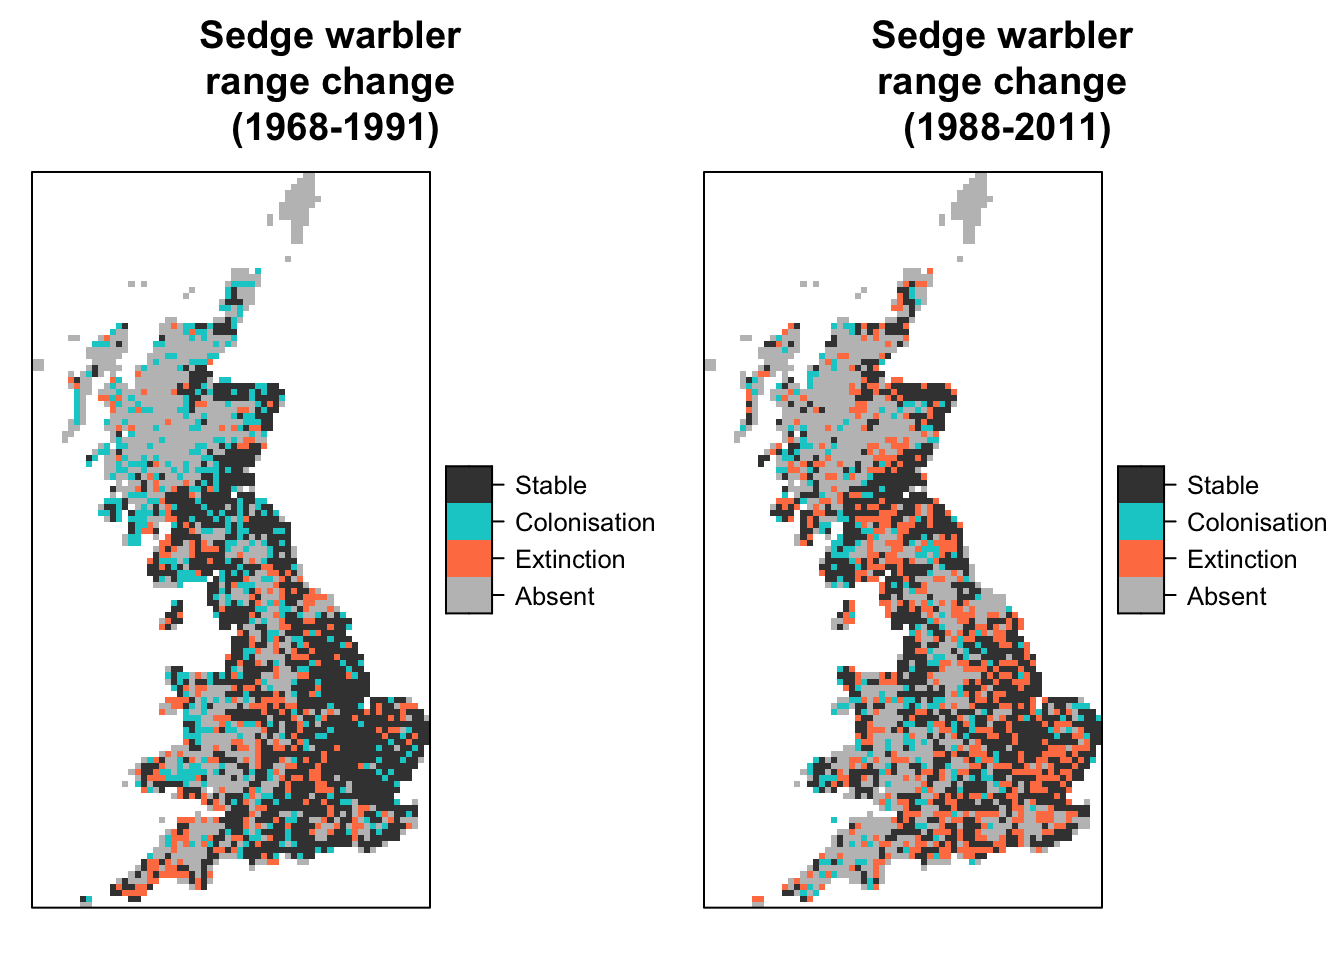
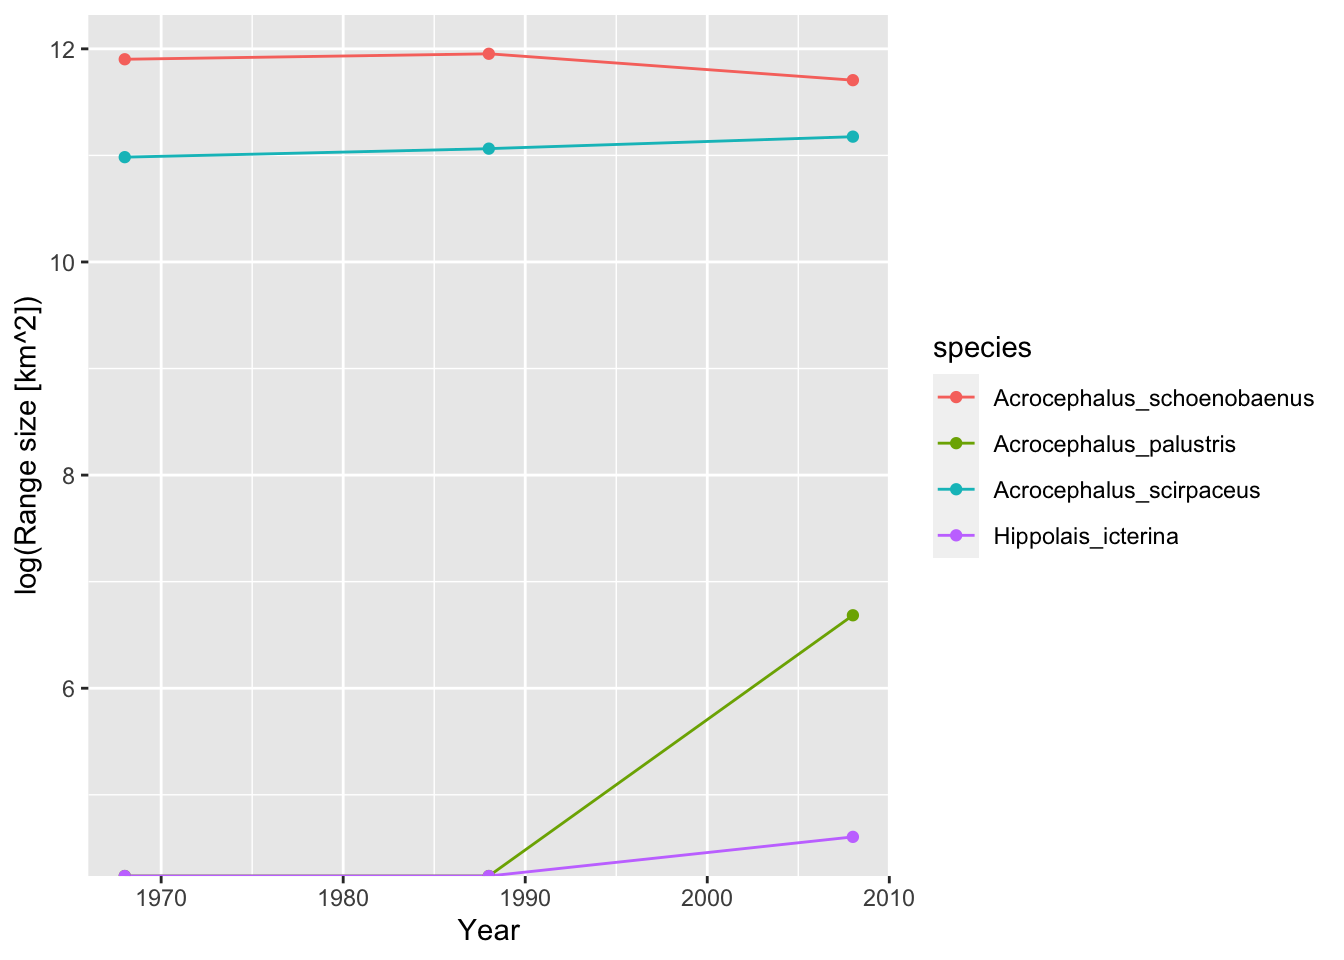
update prac 6

diff --git a/6_BiodivChanges.html b/6_BiodivChanges.html
@@ -501,7 +501,23 @@ plot(rasterFromXYZ(birds_68[,c(&#39;EASTING&#39;,&#39;NORTHING&#39;,&#39;richnes
 <div id="task-1-map-species-richness-changes" class="section level2">
 <h2><span class="header-section-number">1.1</span> Task 1: map species richness changes</h2>
 <p>In order to compare species richness across time periods, you have to compute and map species richness for each sampling period. Then, you can calculate the differences in species richness between these periods.</p>
-<p><img src="6_BiodivChanges_files/figure-html/unnamed-chunk-3-1.png" width="672" /><img src="6_BiodivChanges_files/figure-html/unnamed-chunk-3-2.png" width="672" /></p>
+<p>I give you a few hints how I made the plots below. I mapped species richness by first making stacks of species richness for the different time periods and then used the function <code>ssplot()</code> to produce the three adjacent maps. Of course you can also produce three seperate maps and put them next to each other by using the function <code>par(mfrow=c(1,3)</code>.</p>
+<p><img src="6_BiodivChanges_files/figure-html/unnamed-chunk-3-1.png" width="672" /></p>
+<p>For the plot of species richness differences, I define my own colour palette. First, you have to produce a raster that shows the difference in species richness between two periods. Let us assume you call this raster <code>change_richness</code>. Then you can procude the plot using this code:</p>
+<pre class="r"><code>#------
+# Map species richness differences
+par(mfrow=c(1,3))
+
+# Define axis for colour breaks
+brks_diff &lt;- seq(-50,50,by=5)
+# Define colour palette
+cols.diff = colorRampPalette(rev(c(&#39;#650A13&#39;,&#39;#b2182b&#39;,&#39;#d6604d&#39;,&#39;#f4a582&#39;,&#39;grey90&#39;,&#39;#92c5de&#39;,&#39;#4393c3&#39;,&#39;#2166ac&#39;,&#39;#0B2F52&#39;)))(21) # red-blue diverging
+
+# Plot the species richness change between 1968 and 2011
+plot(change_richness, axes=F,  col=cols.diff, lab.breaks=brks.diff, zlim=c(-50,50), main=&#39;Species richness change \n1968 - 2011&#39;)
+
+# plot the other two maps ...</code></pre>
+<p><img src="6_BiodivChanges_files/figure-html/unnamed-chunk-5-1.png" width="672" /></p>
 <div class="alert alert-info">
 <p><strong>Summary Task 1: map species richness changes</strong></p>
 <ul>
@@ -546,7 +562,7 @@ birds_68$sr_accipiter &lt;- rowSums(birds_68[,accipiter_spp])
 
 # Map ACCIPITRIFORMES species richness
 plot(rasterFromXYZ(birds_68[,c(&#39;EASTING&#39;,&#39;NORTHING&#39;,&#39;sr_accipiter&#39;)]), main=&quot;Richness ACCIPITRIFORMES&quot;)</code></pre>
-<p><img src="6_BiodivChanges_files/figure-html/unnamed-chunk-7-1.png" width="672" /></p>
+<p><img src="6_BiodivChanges_files/figure-html/unnamed-chunk-9-1.png" width="672" /></p>
 <p>Similar to the first task, we can compute species richness for the different time periods and assess the changes in species richness.</p>
 <pre class="r"><code># Map species richness
 bird_dist$sr_accipiter &lt;- rowSums(bird_dist[,accipiter_spp])
@@ -557,19 +573,26 @@ spplot(stack(
   rasterFromXYZ(subset(bird_dist,period==&#39;2008-11&#39;)[,c(&#39;EASTING&#39;,&#39;NORTHING&#39;,&#39;sr_accipiter&#39;)])),
   names.attr = c(&#39;1968-72&#39;,&#39;1988-91&#39;,&#39;2008-11&#39;), main=&#39;Richness ACCIPITRIFORMES&#39;
   )</code></pre>
-<p><img src="6_BiodivChanges_files/figure-html/unnamed-chunk-8-1.png" width="672" /></p>
+<p><img src="6_BiodivChanges_files/figure-html/unnamed-chunk-10-1.png" width="672" /></p>
 <pre class="r"><code>#------
 # Map species richness differences
-par(mfrow=c(1,3))
+par(mfrow=c(1,3))   # make three panels
+
+# we define our own colour palette
 brks_diff &lt;- seq(-5,5,by=5)
 cols.diff = colorRampPalette(rev(c(&#39;#650A13&#39;,&#39;#b2182b&#39;,&#39;#d6604d&#39;,&#39;#f4a582&#39;,&#39;grey90&#39;,&#39;#92c5de&#39;,&#39;#4393c3&#39;,&#39;#2166ac&#39;,&#39;#0B2F52&#39;)))(21) # red-blue diverging
-plot(rasterFromXYZ(subset(bird_dist,period==&#39;2008-11&#39;)[,c(&#39;EASTING&#39;,&#39;NORTHING&#39;,&#39;sr_accipiter&#39;)]) - rasterFromXYZ(subset(bird_dist,period==&#39;1968-72&#39;)[,c(&#39;EASTING&#39;,&#39;NORTHING&#39;,&#39;sr_accipiter&#39;)]), axes=F,  col=cols.diff, lab.breaks=brks.diff, zlim=c(-5,5), main=&#39;ACCIPITRIFORMES \nSpecies richness change \n1968 - 2011&#39;)
-plot(rasterFromXYZ(subset(bird_dist,period==&#39;1988-91&#39;)[,c(&#39;EASTING&#39;,&#39;NORTHING&#39;,&#39;sr_accipiter&#39;)]) - rasterFromXYZ(subset(bird_dist,period==&#39;1968-72&#39;)[,c(&#39;EASTING&#39;,&#39;NORTHING&#39;,&#39;sr_accipiter&#39;)]), axes=F,  col=cols.diff, lab.breaks=brks.diff, zlim=c(-5,5), main=&#39;ACCIPITRIFORMES \nSpecies richness change \n1968 - 1991&#39;)
-plot(rasterFromXYZ(subset(bird_dist,period==&#39;2008-11&#39;)[,c(&#39;EASTING&#39;,&#39;NORTHING&#39;,&#39;sr_accipiter&#39;)]) - rasterFromXYZ(subset(bird_dist,period==&#39;1988-91&#39;)[,c(&#39;EASTING&#39;,&#39;NORTHING&#39;,&#39;sr_accipiter&#39;)]), axes=F,  col=cols.diff, lab.breaks=brks.diff, zlim=c(-5,5), main=&#39;ACCIPITRIFORMES \nSpecies richness change \n1988 - 2011&#39;)</code></pre>
-<p><img src="6_BiodivChanges_files/figure-html/unnamed-chunk-8-2.png" width="672" /></p>
-<pre class="r"><code>par(mfrow=c(1,1))
 
-#----------------------
+# map the differences in species richness between the different time periods
+diff_1968_2011 &lt;- rasterFromXYZ(subset(bird_dist,period==&#39;2008-11&#39;)[,c(&#39;EASTING&#39;,&#39;NORTHING&#39;,&#39;sr_accipiter&#39;)]) - rasterFromXYZ(subset(bird_dist,period==&#39;1968-72&#39;)[,c(&#39;EASTING&#39;,&#39;NORTHING&#39;,&#39;sr_accipiter&#39;)])
+plot(diff_1968_2011, axes=F,  col=cols.diff, lab.breaks=brks.diff, zlim=c(-5,5), main=&#39;ACCIPITRIFORMES \nSpecies richness change \n1968 - 2011&#39;)
+
+diff_1968_1991 &lt;- rasterFromXYZ(subset(bird_dist,period==&#39;1988-91&#39;)[,c(&#39;EASTING&#39;,&#39;NORTHING&#39;,&#39;sr_accipiter&#39;)]) - rasterFromXYZ(subset(bird_dist,period==&#39;1968-72&#39;)[,c(&#39;EASTING&#39;,&#39;NORTHING&#39;,&#39;sr_accipiter&#39;)])
+plot(diff_1968_1991, axes=F,  col=cols.diff, lab.breaks=brks.diff, zlim=c(-5,5), main=&#39;ACCIPITRIFORMES \nSpecies richness change \n1968 - 1991&#39;)
+
+diff_1988_2011 &lt;- rasterFromXYZ(subset(bird_dist,period==&#39;2008-11&#39;)[,c(&#39;EASTING&#39;,&#39;NORTHING&#39;,&#39;sr_accipiter&#39;)]) - rasterFromXYZ(subset(bird_dist,period==&#39;1988-91&#39;)[,c(&#39;EASTING&#39;,&#39;NORTHING&#39;,&#39;sr_accipiter&#39;)])
+plot(diff_1988_2011, axes=F,  col=cols.diff, lab.breaks=brks.diff, zlim=c(-5,5), main=&#39;ACCIPITRIFORMES \nSpecies richness change \n1988 - 2011&#39;)</code></pre>
+<p><img src="6_BiodivChanges_files/figure-html/unnamed-chunk-10-2.png" width="672" /></p>
+<pre class="r"><code>#----------------------
 # Extract species belonging to the order PASSERIFORMES:
 passerine_spp &lt;- subset(redlist_status,order==&#39;PASSERIFORMES&#39;)$scientific_name
 passerine_spp &lt;- sub(&#39; &#39;,&#39;_&#39;, passerine_spp)
@@ -583,43 +606,19 @@ spplot(stack(
   rasterFromXYZ(subset(bird_dist,period==&#39;2008-11&#39;)[,c(&#39;EASTING&#39;,&#39;NORTHING&#39;,&#39;sr_passerine&#39;)])),
   names.attr = c(&#39;1968-72&#39;,&#39;1988-91&#39;,&#39;2008-11&#39;), main=&#39;Richness PASSERIFORMES&#39;
   )</code></pre>
-<p><img src="6_BiodivChanges_files/figure-html/unnamed-chunk-8-3.png" width="672" /></p>
+<p><img src="6_BiodivChanges_files/figure-html/unnamed-chunk-10-3.png" width="672" /></p>
 <pre class="r"><code>#------
 # Map species richness differences
 par(mfrow=c(1,3))
+
 brks_diff &lt;- seq(-35,35,by=5)
 cols.diff = colorRampPalette(rev(c(&#39;#650A13&#39;,&#39;#b2182b&#39;,&#39;#d6604d&#39;,&#39;#f4a582&#39;,&#39;grey90&#39;,&#39;#92c5de&#39;,&#39;#4393c3&#39;,&#39;#2166ac&#39;,&#39;#0B2F52&#39;)))(21) # red-blue diverging
+
+# different from above, we simultaneously produce and plot the rasters:
 plot(rasterFromXYZ(subset(bird_dist,period==&#39;2008-11&#39;)[,c(&#39;EASTING&#39;,&#39;NORTHING&#39;,&#39;sr_passerine&#39;)]) - rasterFromXYZ(subset(bird_dist,period==&#39;1968-72&#39;)[,c(&#39;EASTING&#39;,&#39;NORTHING&#39;,&#39;sr_passerine&#39;)]), axes=F,  col=cols.diff, lab.breaks=brks.diff, zlim=c(-35,35), main=&#39;PASSERIFORMES \nSpecies richness change \n1968 - 2011&#39;)
 plot(rasterFromXYZ(subset(bird_dist,period==&#39;1988-91&#39;)[,c(&#39;EASTING&#39;,&#39;NORTHING&#39;,&#39;sr_passerine&#39;)]) - rasterFromXYZ(subset(bird_dist,period==&#39;1968-72&#39;)[,c(&#39;EASTING&#39;,&#39;NORTHING&#39;,&#39;sr_passerine&#39;)]), axes=F,  col=cols.diff, lab.breaks=brks.diff, zlim=c(-35,35), main=&#39;PASSERIFORMES \nSpecies richness change \n1968 - 1991&#39;)
 plot(rasterFromXYZ(subset(bird_dist,period==&#39;2008-11&#39;)[,c(&#39;EASTING&#39;,&#39;NORTHING&#39;,&#39;sr_passerine&#39;)]) - rasterFromXYZ(subset(bird_dist,period==&#39;1988-91&#39;)[,c(&#39;EASTING&#39;,&#39;NORTHING&#39;,&#39;sr_passerine&#39;)]), axes=F,  col=cols.diff, lab.breaks=brks.diff, zlim=c(-35,35), main=&#39;PASSERIFORMES \nSpecies richness change \n1988 - 2011&#39;)</code></pre>
-<p><img src="6_BiodivChanges_files/figure-html/unnamed-chunk-8-4.png" width="672" /></p>
-<pre class="r"><code>par(mfrow=c(1,1))
-
-# #----------------------
-# # ANSERIFORMES 
-# # Extract species belonging to the order PASSERIFORMES:
-# anser_spp &lt;- subset(redlist_status,order==&#39;ANSERIFORMES&#39;)$scientific_name
-# anser_spp &lt;- sub(&#39; &#39;,&#39;_&#39;, anser_spp)
-# 
-# # Map species richness
-# bird_dist$sr_anser &lt;- rowSums(bird_dist[,anser_spp])
-# 
-# spplot(stack(
-#   rasterFromXYZ(subset(bird_dist,period==&#39;1968-72&#39;)[,c(&#39;EASTING&#39;,&#39;NORTHING&#39;,&#39;sr_anser&#39;)]),
-#   rasterFromXYZ(subset(bird_dist,period==&#39;1988-91&#39;)[,c(&#39;EASTING&#39;,&#39;NORTHING&#39;,&#39;sr_anser&#39;)]),
-#   rasterFromXYZ(subset(bird_dist,period==&#39;2008-11&#39;)[,c(&#39;EASTING&#39;,&#39;NORTHING&#39;,&#39;sr_anser&#39;)])),
-#   names.attr = c(&#39;1968-72&#39;,&#39;1988-91&#39;,&#39;2008-11&#39;), main=&#39;Richness ANSERIFORMES&#39;
-#   )
-# 
-# #------
-# # Map species richness differences
-# par(mfrow=c(1,3))
-# brks_diff &lt;- seq(-15,15,by=5)
-# cols.diff = colorRampPalette(rev(c(&#39;#650A13&#39;,&#39;#b2182b&#39;,&#39;#d6604d&#39;,&#39;#f4a582&#39;,&#39;grey90&#39;,&#39;#92c5de&#39;,&#39;#4393c3&#39;,&#39;#2166ac&#39;,&#39;#0B2F52&#39;)))(21) # red-blue diverging
-# plot(rasterFromXYZ(subset(bird_dist,period==&#39;2008-11&#39;)[,c(&#39;EASTING&#39;,&#39;NORTHING&#39;,&#39;sr_anser&#39;)]) - rasterFromXYZ(subset(bird_dist,period==&#39;1968-72&#39;)[,c(&#39;EASTING&#39;,&#39;NORTHING&#39;,&#39;sr_anser&#39;)]), axes=F,  col=cols.diff, lab.breaks=brks.diff, zlim=c(-15,15), main=&#39;ANSERIFORMES \nSpecies richness change \n1968 - 2011&#39;)
-# plot(rasterFromXYZ(subset(bird_dist,period==&#39;1988-91&#39;)[,c(&#39;EASTING&#39;,&#39;NORTHING&#39;,&#39;sr_anser&#39;)]) - rasterFromXYZ(subset(bird_dist,period==&#39;1968-72&#39;)[,c(&#39;EASTING&#39;,&#39;NORTHING&#39;,&#39;sr_anser&#39;)]), axes=F,  col=cols.diff, lab.breaks=brks.diff, zlim=c(-15,15), main=&#39;ANSERIFORMES \nSpecies richness change \n1968 - 1991&#39;)
-# plot(rasterFromXYZ(subset(bird_dist,period==&#39;2008-11&#39;)[,c(&#39;EASTING&#39;,&#39;NORTHING&#39;,&#39;sr_anser&#39;)]) - rasterFromXYZ(subset(bird_dist,period==&#39;1988-91&#39;)[,c(&#39;EASTING&#39;,&#39;NORTHING&#39;,&#39;sr_anser&#39;)]), axes=F,  col=cols.diff, lab.breaks=brks.diff, zlim=c(-15,15), main=&#39;ANSERIFORMES \nSpecies richness change \n1988 - 2011&#39;)
-# par(mfrow=c(1,1))</code></pre>
+<p><img src="6_BiodivChanges_files/figure-html/unnamed-chunk-10-4.png" width="672" /></p>
 <div class="alert alert-info">
 <p><strong>Summary Task 2: map taxon-specific species richness changes</strong></p>
 <ul>
@@ -660,7 +659,7 @@ for (t in c(&#39;1968-72&#39;, &#39;1988-91&#39;, &#39;2008-11&#39;)) {
 # plot changes in range size
 library(ggplot2)
 ggplot(data = acrocepha_rangesize, mapping = aes(x = rep(c(1968,1988,2008),4), y = log(rangesize), color=species)) + geom_line() + geom_point() + xlab(&#39;Year&#39;) + ylab(&#39;log(Range size [km^2])&#39;)</code></pre>
-<p><img src="6_BiodivChanges_files/figure-html/unnamed-chunk-10-1.png" width="672" /></p>
+<p><img src="6_BiodivChanges_files/figure-html/unnamed-chunk-13-1.png" width="672" /></p>
 <p>We can also look at positions of range centres or boundaries. For simplicity, let’s analyses only the latitudinal (south-north) shifts.</p>
 <pre class="r"><code># Make data frame for storing the range positions
 acrocepha_rangelimits &lt;- data.frame(expand.grid(period=c(&#39;1968-72&#39;, &#39;1988-91&#39;, &#39;2008-11&#39;), species=acrocepha_spp), rangecentre=NA, leading_edge=NA)
@@ -678,9 +677,9 @@ for (t in c(&#39;1968-72&#39;, &#39;1988-91&#39;, &#39;2008-11&#39;)) {
 
 # plot changes in range positions
 ggplot(data = acrocepha_rangelimits, mapping = aes(x = rep(c(1968,1988,2008),4), y = rangecentre, color=species)) + geom_line() + geom_point() + xlab(&#39;Year&#39;) + ylab(&#39;Range centre (Northing)&#39;) + ggtitle(&#39;Range centre&#39;)</code></pre>
-<p><img src="6_BiodivChanges_files/figure-html/unnamed-chunk-11-1.png" width="672" /></p>
+<p><img src="6_BiodivChanges_files/figure-html/unnamed-chunk-14-1.png" width="672" /></p>
 <pre class="r"><code>ggplot(data = acrocepha_rangelimits, mapping = aes(x = rep(c(1968,1988,2008),4), y = leading_edge, color=species)) + geom_line() + geom_point() + xlab(&#39;Year&#39;) + ylab(&#39;Range centre (Northing)&#39;) + ggtitle(&#39;Leading range edge&#39;)</code></pre>
-<p><img src="6_BiodivChanges_files/figure-html/unnamed-chunk-11-2.png" width="672" /></p>
+<p><img src="6_BiodivChanges_files/figure-html/unnamed-chunk-14-2.png" width="672" /></p>
 <div class="alert alert-info">
 <p><strong>Summary Task 3: quantify species range changes</strong></p>
 <ul>
@@ -697,7 +696,7 @@ sedge_88 &lt;- rasterFromXYZ(subset(bird_dist,period==&#39;1988-91&#39;)[,c(&#39
 sedge_08 &lt;- rasterFromXYZ(subset(bird_dist,period==&#39;2008-11&#39;)[,c(&#39;EASTING&#39;,&#39;NORTHING&#39;,&#39;Acrocephalus_schoenobaenus&#39;)])
 
 spplot(stack(sedge_68, sedge_88, sedge_08))</code></pre>
-<p><img src="6_BiodivChanges_files/figure-html/unnamed-chunk-12-1.png" width="672" /></p>
+<p><img src="6_BiodivChanges_files/figure-html/unnamed-chunk-15-1.png" width="672" /></p>
 <pre class="r"><code># Compute differences. To distinguish clearly where cells are colonised or decolonised, we assign occurrences in 1968 a value=1 and occurrence in 2008 a value=2:
 temp &lt;- sedge_08
 values(temp)[values(temp)&gt;0 &amp; !is.na(values(temp))] &lt;- 2
@@ -712,9 +711,9 @@ levels(temp_diff_f) &lt;- rat
 library(rasterVis)
 custom.pal &lt;- c(&quot;grey75&quot;, &quot;coral&quot;, &quot;cyan3&quot;,&quot;grey25&quot;)
 levelplot(temp_diff_f, margin=F, scales=list(draw=FALSE),col.regions=custom.pal,main=&#39;Sedge warbler range change (1968-2011)&#39;)</code></pre>
-<p><img src="6_BiodivChanges_files/figure-html/unnamed-chunk-12-2.png" width="672" /></p>
+<p><img src="6_BiodivChanges_files/figure-html/unnamed-chunk-15-2.png" width="672" /></p>
 <p>Even more insights can be gained by mapping the differences over all time periods.</p>
-<p><img src="6_BiodivChanges_files/figure-html/unnamed-chunk-13-1.png" width="672" /></p>
+<p><img src="6_BiodivChanges_files/figure-html/unnamed-chunk-16-1.png" width="672" /></p>
 <div class="alert alert-info">
 <p><strong>Summary Task 4: map species range changes</strong></p>
 <ul>
